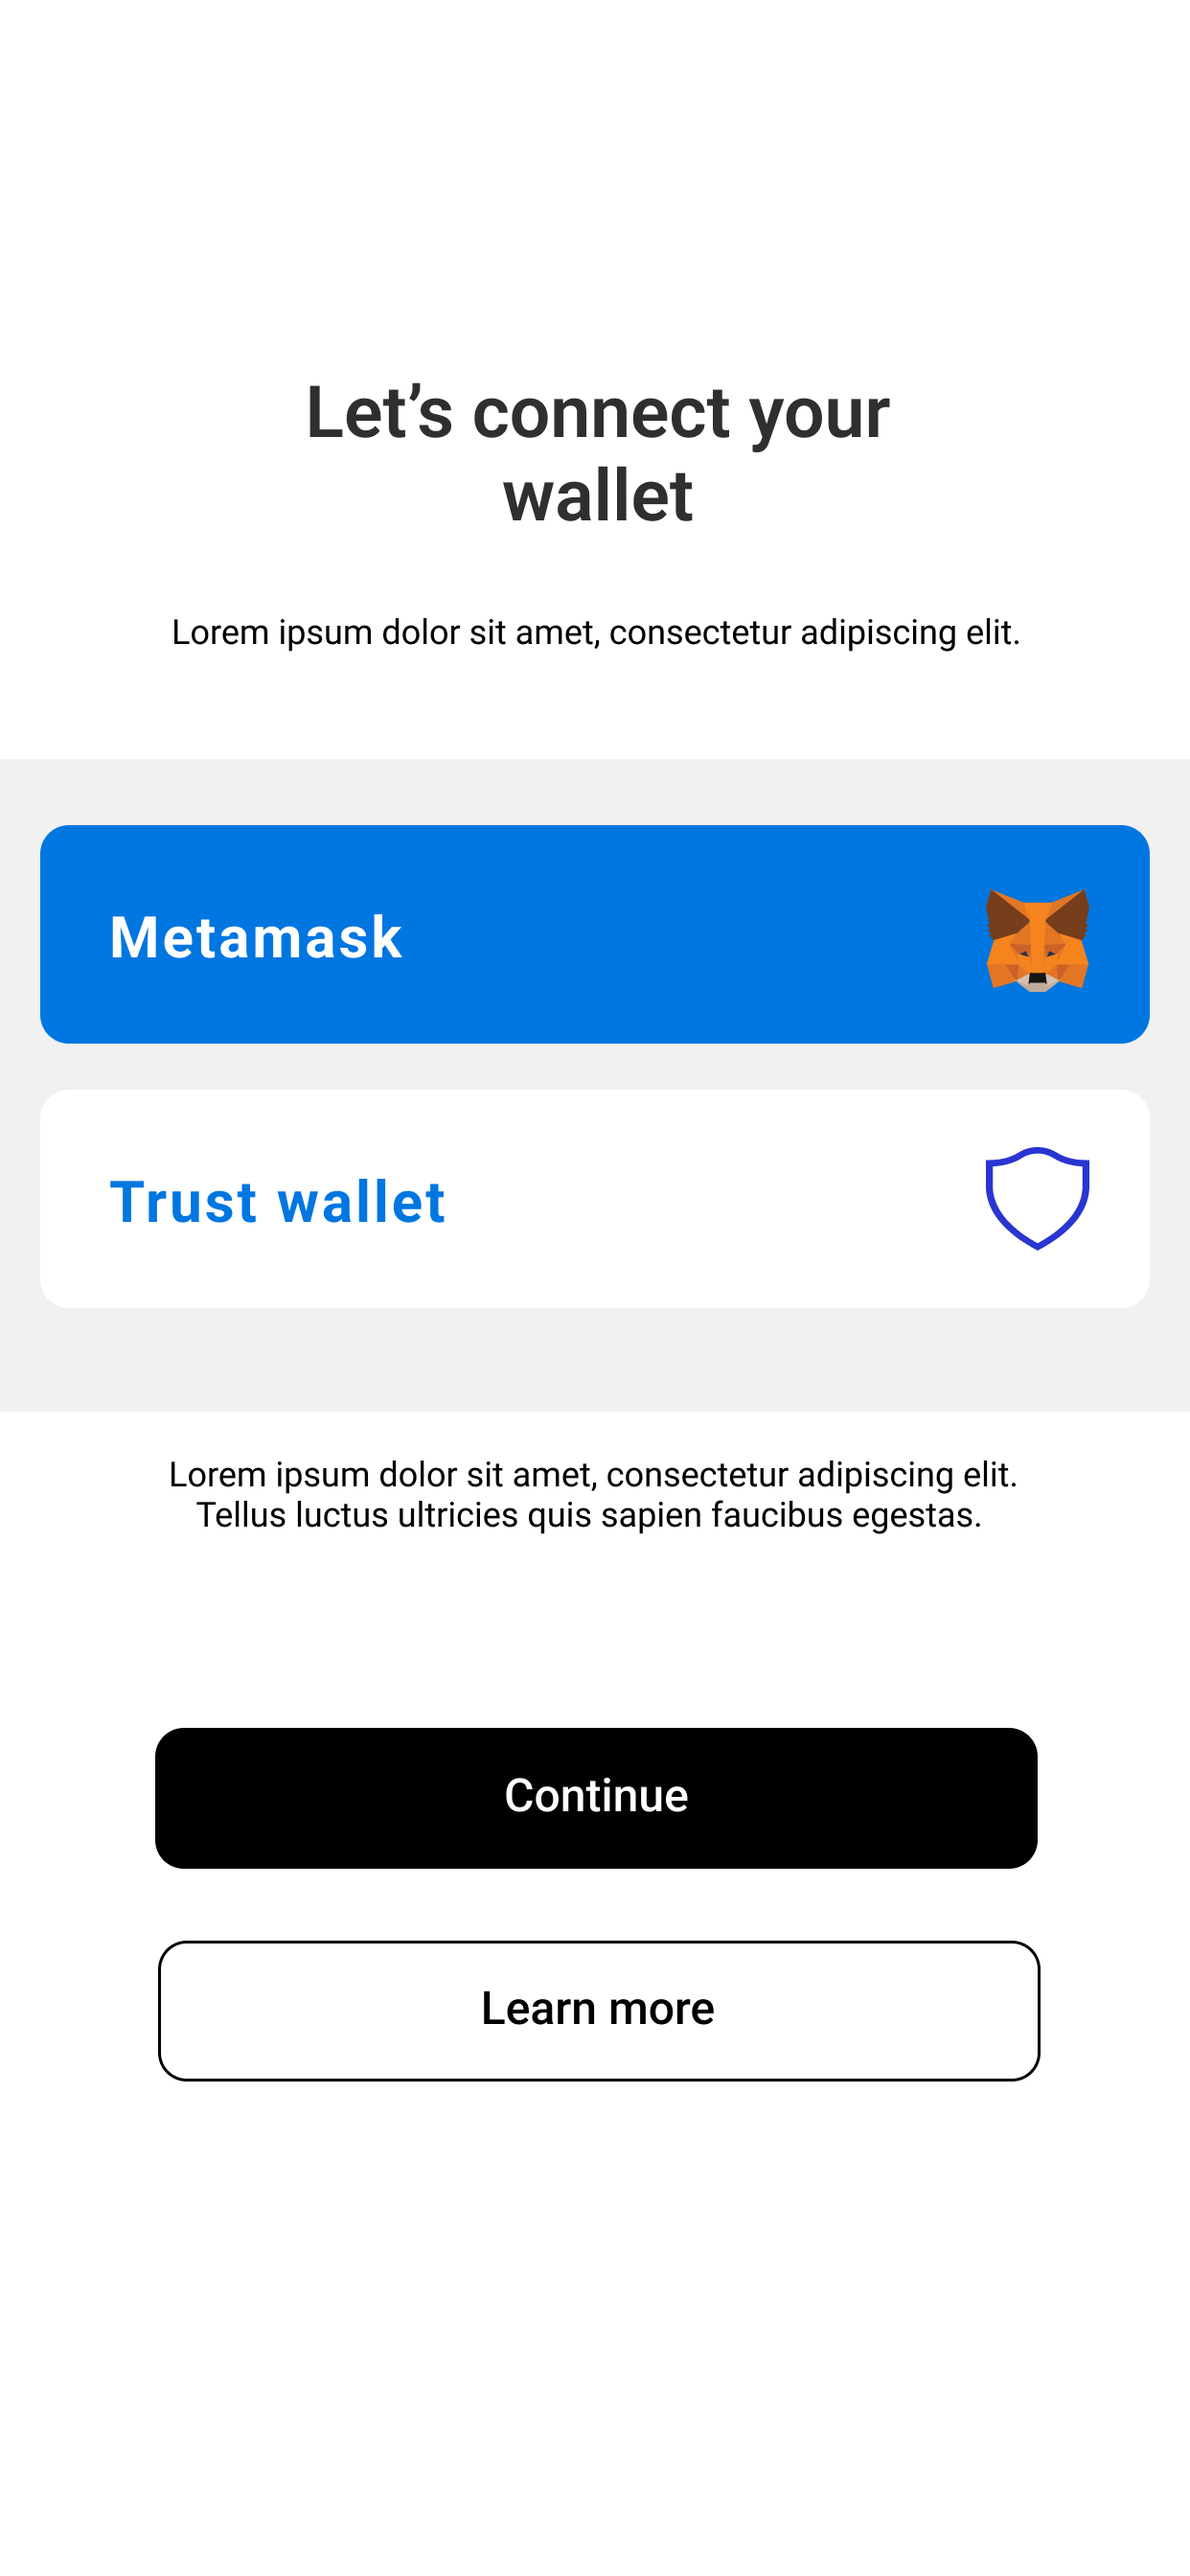
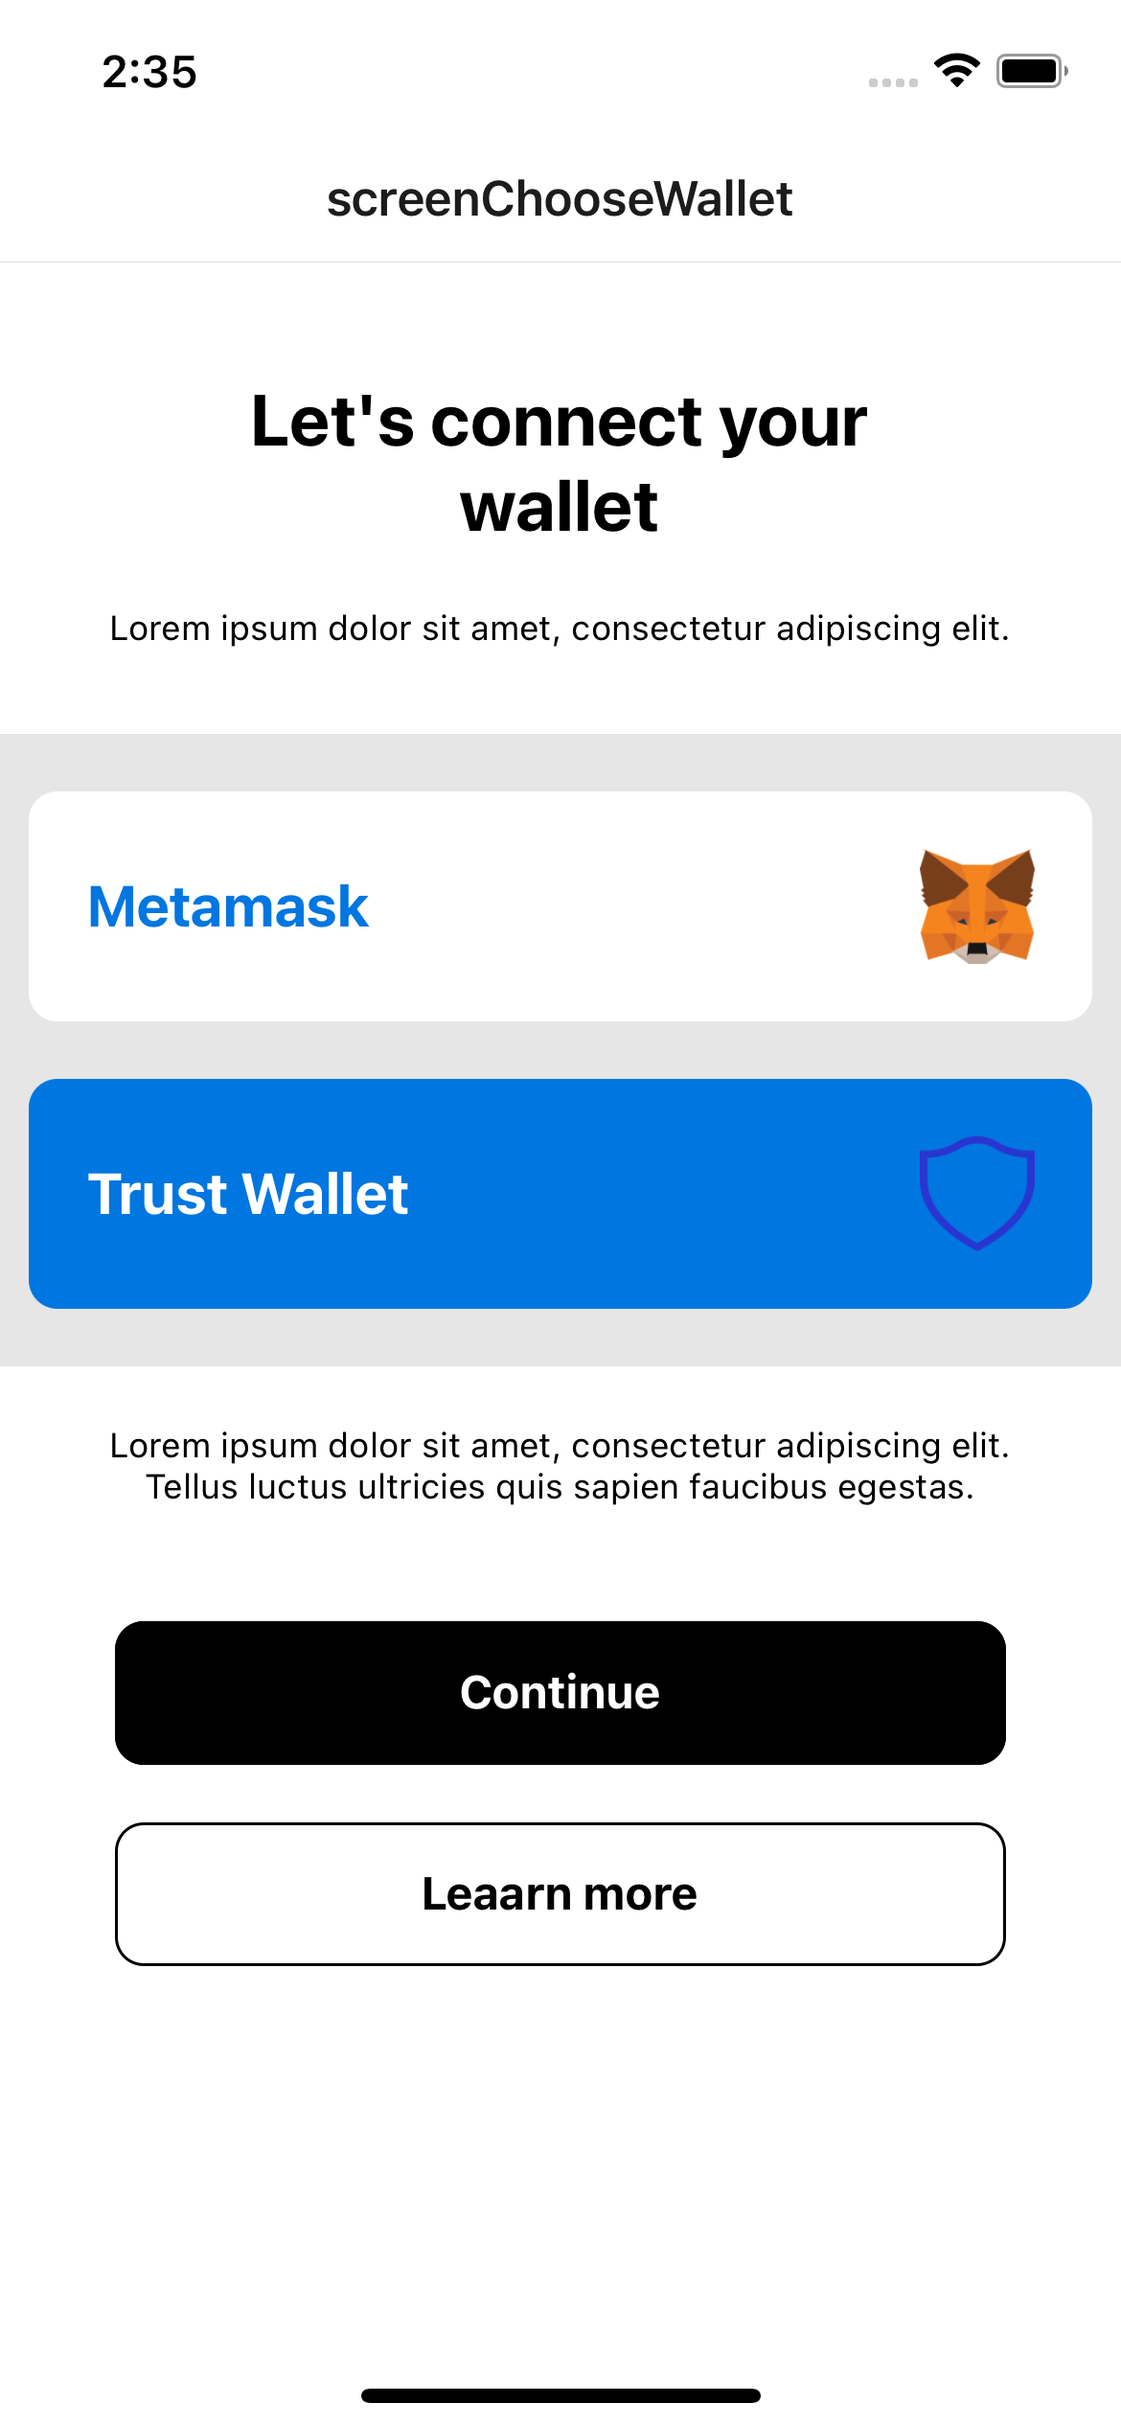
choose wallet screen added

diff --git a/screens/screen-choose-wallet/index.js b/screens/screen-choose-wallet/index.js
@@ -1,14 +1,71 @@
-import React from "react";
+import React, { useState, useEffect } from "react";
 import {
   Text,
   View,
-  StyleSheet
+  StyleSheet,
+  FlatList,
+  Image,
+  Pressable
 } from "react-native";
 
 const ChooseWallet = () => {
+  const [wallets, setWallets] = useState([]);
+  const [selectedWallet, setSelectedWallet] = useState(null);
+  useEffect(() => {
+    setWallets([
+      {
+        name: "Metamask",
+        icon: require("./assets/metamaskIcon.png")
+      },
+      {
+        name: "Trust Wallet",
+        icon: require("./assets/trustIcon.png")
+      }
+    ]);
+  }, []);
   return (
     <View style={styles.container}>
-      <Text style={styles.heading}>Choose Wallet</Text>
+      <Text style={styles.heading}>Let&apos;s connect your wallet</Text>
+      <Text style={styles.subHeading}>
+        Lorem ipsum dolor sit amet, consectetur adipiscing elit.
+      </Text>
+      <View>
+        <FlatList
+          style={styles.list}
+          data={wallets}
+          renderItem={({ item }) => (
+            <Pressable
+              style={[
+                styles.walletContainer,
+                item === selectedWallet && styles.selectedWallet
+              ]}
+              onPress={() => setSelectedWallet(item)}>
+              <Text
+                style={[
+                  styles.walletText,
+                  item === selectedWallet && styles.selectedWallet
+                ]}>
+                {item.name}
+              </Text>
+              <Image source={item.icon} style={styles.walletIcon} />
+            </Pressable>
+          )}
+          keyExtractor={item => item.name}
+        />
+      </View>
+      <Text style={styles.subHeading}>
+        Lorem ipsum dolor sit amet, consectetur adipiscing elit. Tellus luctus
+        ultricies quis sapien faucibus egestas.
+      </Text>
+      <Button buttonText="Continue" style={styles.button} hideShadow />
+      <Button
+        buttonText="Leaarn more"
+        style={styles.button}
+        outlineColor="#000"
+        textColor="#000"
+        color="#fff"
+        hideShadow
+      />
     </View>
   );
 };
@@ -18,8 +75,118 @@ const styles = StyleSheet.create({
     backgroundColor: "#fff"
   },
   heading: {
-    fontSize: 20
+    fontSize: 25,
+    fontWeight: "bold",
+    marginTop: 40,
+    marginBottom: 20,
+    alignSelf: "center",
+    textAlign: "center",
+    width: "70%"
+  },
+  subHeading: {
+    fontSize: 12,
+    alignSelf: "center",
+    textAlign: "center",
+    width: "85%",
+    marginBottom: 30
+  },
+  list: {
+    backgroundColor: "#e6e6e6",
+    padding: 10,
+    marginBottom: 20
+  },
+  walletContainer: {
+    flexDirection: "row",
+    alignItems: "center",
+    justifyContent: "space-between",
+    marginVertical: 10,
+    width: "100%",
+    height: 80,
+    borderRadius: 10,
+    paddingHorizontal: 20,
+    backgroundColor: "#fff"
+  },
+  walletText: {
+    fontSize: 20,
+    fontWeight: "bold",
+    color: "#0076E0"
+  },
+  walletIcon: {
+    width: 40,
+    height: 40
+  },
+  selectedWallet: {
+    backgroundColor: "#0076E0",
+    color: "#fff"
+  },
+  button: {
+    marginVertical: 10,
+    marginHorizontal: 40
   }
 });
 
 export default ChooseWallet;
+
+const Button = params => {
+  const backgroundColor = params.color || "#000";
+  const textColor = params.textColor || "#fff";
+  const btnStyle = {
+    backgroundColor: backgroundColor,
+    borderColor: params.outlineColor || backgroundColor,
+    borderWidth: 1
+  };
+  const btnText = {
+    color: textColor
+  };
+  return (
+    <View style={[buttonStyles.btnContainer, params.style]}>
+      <View style={!params.hideShadow ? buttonStyles.shadowContainer : null}>
+        <Pressable
+          style={[buttonStyles.btn, btnStyle]}
+          onPress={params.onPress}>
+          <Text style={[buttonStyles.btnText, btnText]}>
+            {params.buttonText}
+          </Text>
+          <View style={styles.childrenContainer}>{params.children}</View>
+        </Pressable>
+      </View>
+    </View>
+  );
+};
+
+const buttonStyles = StyleSheet.create({
+  btnContainer: {
+    justifyContent: "center"
+  },
+  shadowContainer: {
+    shadowColor: "rgba(0, 0, 0, 0.5)",
+    shadowOffset: {
+      width: 0,
+      height: 5
+    },
+    shadowOpacity: 0.5,
+    shadowRadius: 10,
+    elevation: 10,
+    backgroundColor: "#fff",
+    borderRadius: 10
+  },
+  btn: {
+    height: 50,
+    padding: 10,
+    paddingHorizontal: 25,
+    borderRadius: 10,
+    justifyContent: "center",
+    alignItems: "center",
+
+    flexDirection: "row"
+  },
+  btnText: {
+    color: "#fff",
+    fontSize: 16,
+    fontWeight: "bold"
+  },
+  childrenContainer: {
+    justifyContent: "center",
+    alignItems: "center"
+  }
+});

diff --git a/modules/index.js b/modules/index.js
@@ -2,7 +2,7 @@ import mods from "./*/index.js";
 import { getModules } from "./modules.js";
 
 export const modules = getModules(mods);
-export const initialRoute = "screenArDevices";
+export const initialRoute = "screenChooseWallet";
 // export const initialRoute = modules[0].value.title;
 export const slices = modules
   .filter(mod => mod.value.slice)
